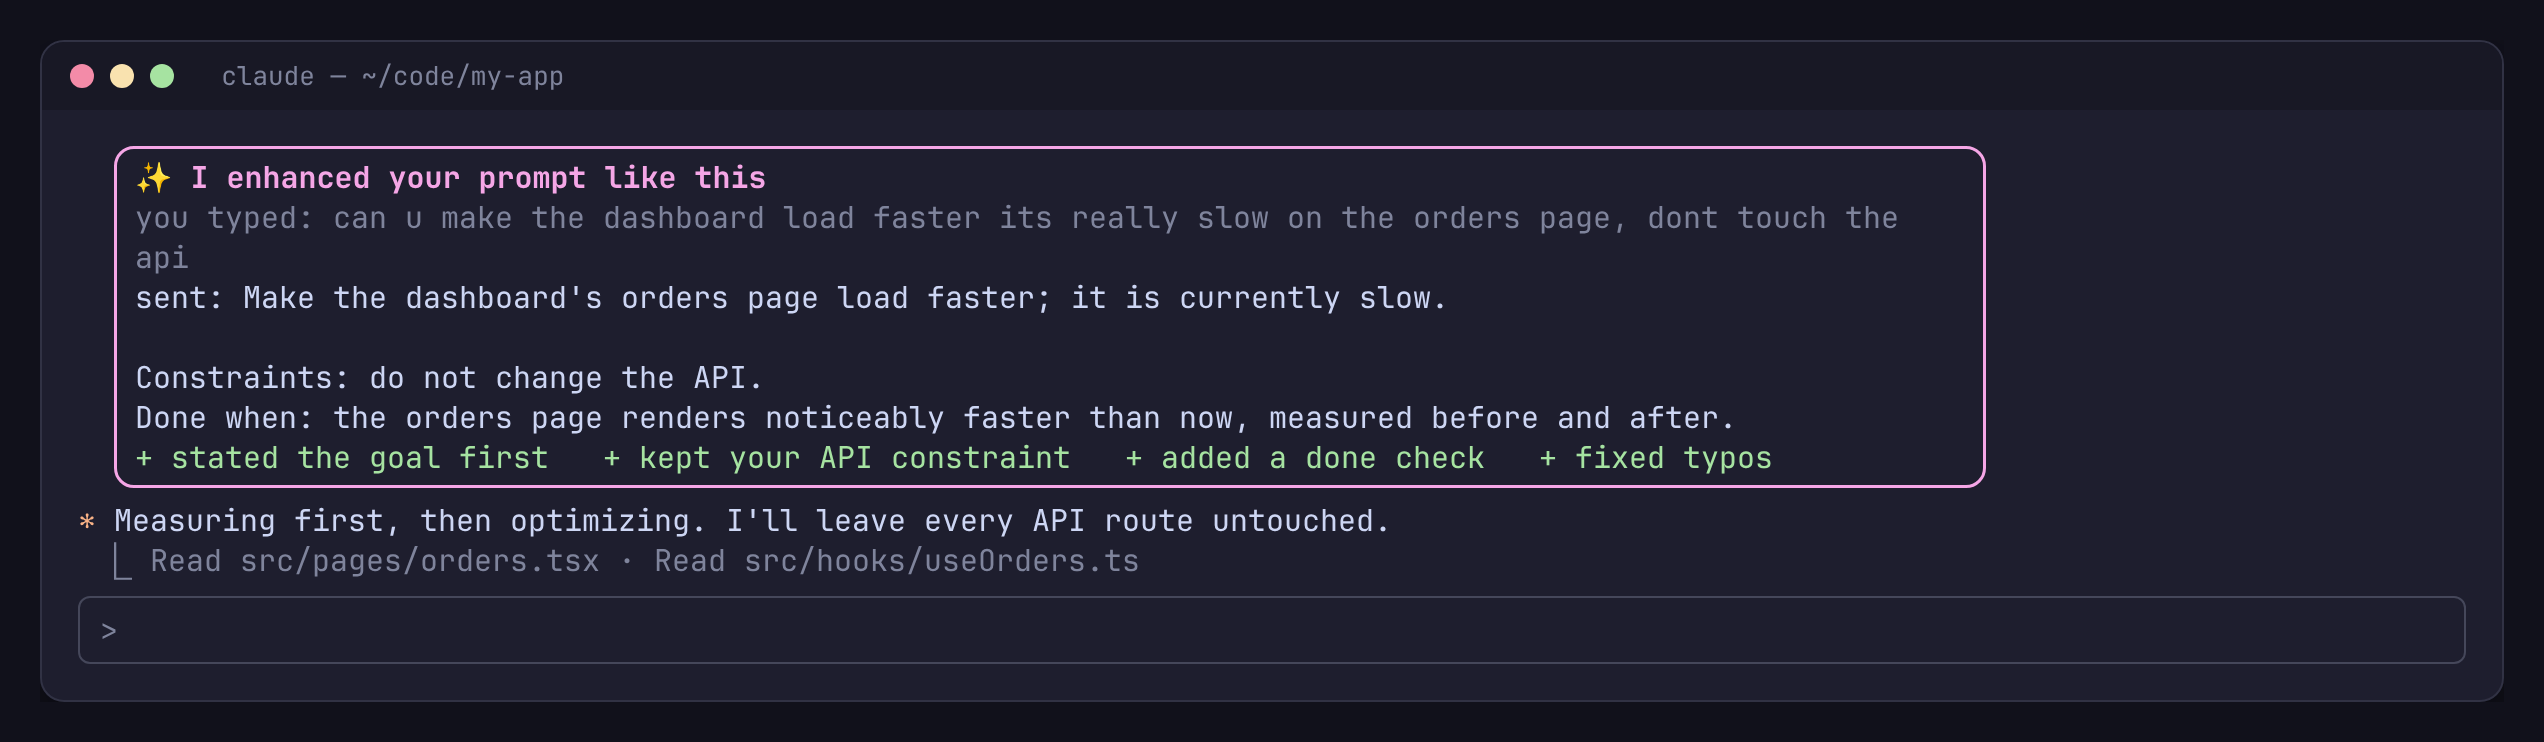
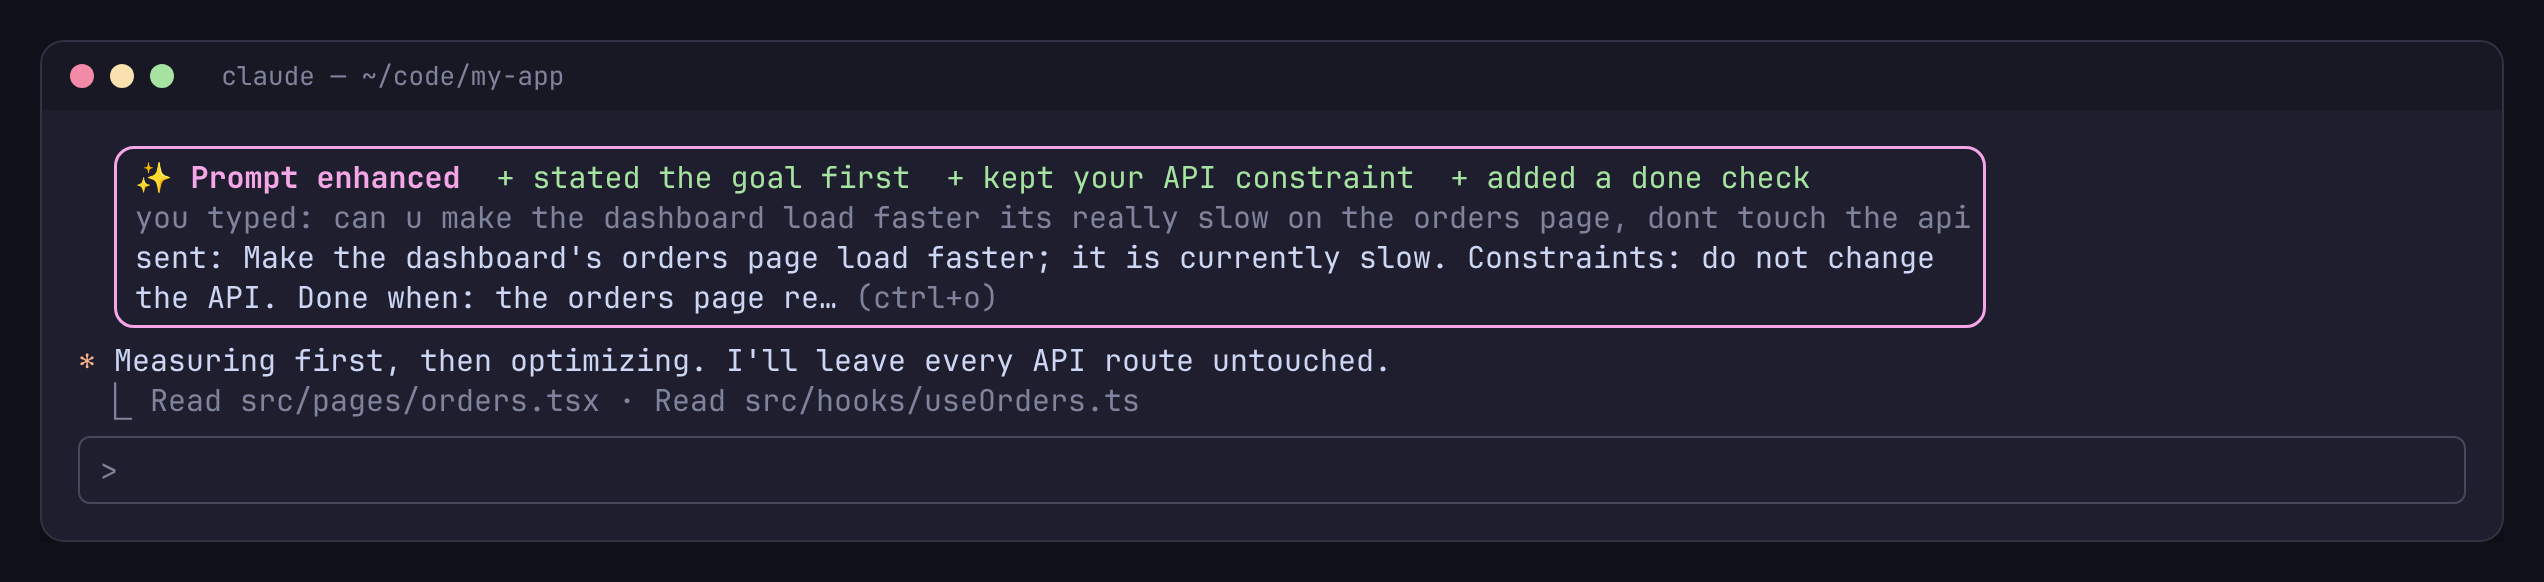
feat: compact question notice, band and enhanced card for small terminals (0.3.2)
The held prompt's questions are one tidy transcript line; the band above the
prompt is a single row with its buttons on short terminals and lists the
questions only when it has room. The enhanced card is a few rows tall so it
no longer scrolls off before it is seen, with a "Prompt enhanced" toast as a
backup. Haiku keeps its questions under 12 words. Docs and screenshots
updated.

diff --git a/plugins/prompt-forge/hooks/register.tsx b/plugins/prompt-forge/hooks/register.tsx
@@ -32,7 +32,7 @@ Never answer the user or explain anything. Reply in exactly one of these three f
 UNCHANGED
 
 2. You cannot tell what the user wants even with the conversation, and a wrong guess would
-send the agent off track. Ask 1 to 3 short questions only the user can answer: what they
+send the agent off track. Ask 1 to 3 questions only the user can answer, each under 12 words: what they
 mean by an unclear reference, which of several options they want, a name or value only they
 know. Never ask where code lives, what the stack is, or for logs or metrics: the agent reads
 the code and finds those itself, so rewrite the prompt instead.
@@ -107,9 +107,14 @@ export function wantsForge(text: string): boolean {
  * prompt may never show (a survey holds it, or another plugin's band answers first).
  */
 export function holdNote(questions: readonly string[]): string {
-  const qs = questions.length === 1 ? questions[0] : questions.map((q, i) => `${i + 1}) ${q}`).join('  ')
-  return `✨ Prompt Forge needs an answer before sending: ${qs}  Reply in the prompt box, or send "raw:" alone to send your prompt as typed.`
+  // One line: the engine draws a drop's text as a single paragraph, newlines included.
+  const qs = questions.length === 1 ? questions[0] : questions.map((q, i) => `${i + 1}. ${q}`).join('  ')
+  return `✨ Prompt Forge asks: ${qs}  ↳ reply below, or send "raw:" to send your prompt as typed`
 }
+
+/** A toast that outlasts the card scrolling away on a short terminal. */
+const enhancedNote = (added: readonly string[]) =>
+  `✨ Prompt enhanced${added.length ? `: ${added.slice(0, 2).join(', ')}` : ''} (ctrl+o on it shows the full text)`
 
 const clip = (s: string, n: number) => (s.length > n ? `${s.slice(0, n - 1)}…` : s)
 const norm = (s: string) => s.trim().replace(/\s+/g, ' ')
@@ -189,6 +194,7 @@ export const register: Register = on => {
         const out = await forge($, held.original, answers)
         if (out.kind !== 'rewrite') return next({ ...e, text: plain })
         await update($, forgedA, list => [...list, { original: `${held.original}\n↳ ${typed}`, enhanced: out.enhanced, added: out.added }].slice(-50))
+        $.ui.toast(enhancedNote(out.added))
         return next({ ...e, text: out.enhanced })
       } finally {
         $.ui.status(undefined)
@@ -214,6 +220,7 @@ export const register: Register = on => {
       }
       const item: Forged = { original: e.text, enhanced: out.enhanced, added: out.added }
       await update($, forgedA, list => [...list, item].slice(-50))
+      $.ui.toast(enhancedNote(out.added))
       return next({ ...e, text: out.enhanced })
     } finally {
       $.ui.status(undefined)
@@ -225,13 +232,12 @@ export const register: Register = on => {
     const held = await read($, pendingA)
     if (!held || e.props.hasSurvey) return next(e)
     const { Box, Button, Text } = $.ui.resolve(e)
+    // On a short terminal the band is one row: the transcript line above carries the questions.
+    const roomy = e.props.maxRows >= 14
     return (
       <Box flexDirection="column" borderStyle="round" borderColor="magenta" paddingX={1}>
-        <Text bold color="magenta">✨ Before I send this, I need a bit more context</Text>
-        <Text dimColor>you typed: {clip(held.original, 200)}</Text>
-        {held.questions.map((q, i) => <Text>{`${i + 1}. ${q}`}</Text>)}
-        <Text dimColor>Type your answer below and press Enter. The agent continues with both.</Text>
-        <Box flexDirection="row">
+        <Box flexDirection="row" gap={1}>
+          <Text bold color="magenta">✨ Prompt Forge is waiting for your answer</Text>
           <Button
             key="send-as-typed"
             label="Send as typed"
@@ -240,9 +246,10 @@ export const register: Register = on => {
               await $.prompt.submit({ text: held.original, asUser: true })
             }}
           />
-          <Text> </Text>
           <Button key="cancel" label="Cancel" onPress={() => update($, pendingA, () => null)} />
         </Box>
+        {roomy && <Text dimColor wrap="truncate-end">you typed: {clip(held.original, 200)}</Text>}
+        {roomy && held.questions.map((q, i) => <Text>{`${i + 1}. ${q}`}</Text>)}
       </Box>
     )
   })
@@ -256,10 +263,12 @@ export const register: Register = on => {
     const { Box, Text } = $.ui.resolve(e)
     return (
       <Box flexDirection="column" borderStyle="round" borderColor="magenta" paddingX={1}>
-        <Text bold color="magenta">✨ I enhanced your prompt like this</Text>
-        <Text dimColor>you typed: {clip(hit.original, 400)}</Text>
-        <Text>sent: {hit.enhanced}</Text>
-        {hit.added.length > 0 && <Text color="green">{hit.added.map(a => `+ ${a}`).join('   ')}</Text>}
+        <Text wrap="truncate-end">
+          <Text bold color="magenta">✨ Prompt enhanced</Text>
+          {hit.added.length > 0 && <Text color="green">{`  ${hit.added.map(a => `+ ${a}`).join('  ')}`}</Text>}
+        </Text>
+        <Text dimColor wrap="truncate-end">you typed: {hit.original.replace(/\s+/g, ' ')}</Text>
+        <Text>sent: {clip(hit.enhanced.replace(/\s+/g, ' '), 150)} <Text dimColor>(ctrl+o)</Text></Text>
       </Box>
     )
   })

diff --git a/scripts/mockups/ask.html b/scripts/mockups/ask.html
@@ -1,13 +1,8 @@
-<!doctype html><html data-size="1280,580"><head><meta charset="utf-8"><link rel="stylesheet" href="style.css"></head><body>
+<!doctype html><html data-size="1280,400"><head><meta charset="utf-8"><link rel="stylesheet" href="style.css"></head><body>
 <div class="win"><div class="bar"><span class="dot" style="background:#f38ba8"></span><span class="dot" style="background:#f9e2af"></span><span class="dot" style="background:#a6e3a1"></span>&nbsp; claude — ~/code/my-app</div>
 <div class="body">
-<div class="wrap reason">Prompt dropped by a hook: ✨ Prompt Forge needs an answer before sending: 1) Which plugin should be renamed?  2) What should the new name be?  Reply in the prompt box, or send "raw:" alone to send your prompt as typed.</div>
+<div class="wrap reason">Prompt dropped by a hook: ✨ Prompt Forge asks: 1. Which plugin should be renamed?  2. What should the new name be?  ↳ reply below, or send "raw:" to send your prompt as typed</div>
 <div class="sep"></div>
-<div class="card" style="margin-left:0"><div class="t">✨ Before I send this, I need a bit more context</div>
-<div class="wrap dim">you typed: rename it so it's independent from the other one</div>
-<div class="wrap">1. Which plugin should be renamed?</div>
-<div class="wrap">2. What should the new name be?</div>
-<div class="wrap dim">Type your answer below and press Enter. The agent continues with both.</div>
-<div style="margin-top:4px"><span class="btnbox focus">Send as typed</span><span class="btnbox">Cancel</span></div></div>
+<div class="card" style="margin-left:0"><div class="row"><span class="t">✨ Prompt Forge is waiting for your answer</span>&nbsp; <span class="btnbox focus">Send as typed</span><span class="btnbox">Cancel</span></div></div>
 <div class="prompt" style="color:var(--fg)">&gt; <span class="typing">prompt-forge, call it prompt-smith</span></div>
 </div></div></body></html>

diff --git a/scripts/mockups/card.html b/scripts/mockups/card.html
@@ -1,13 +1,9 @@
 <!doctype html><html data-size="1280,520"><head><meta charset="utf-8"><link rel="stylesheet" href="style.css"></head><body>
 <div class="win"><div class="bar"><span class="dot" style="background:#f38ba8"></span><span class="dot" style="background:#f9e2af"></span><span class="dot" style="background:#a6e3a1"></span>&nbsp; claude — ~/code/my-app</div>
 <div class="body">
-<div class="card"><div class="t">✨ I enhanced your prompt like this</div>
-<div class="wrap dim">you typed: can u make the dashboard load faster its really slow on the orders page, dont touch the api</div>
-<div class="wrap">sent: Make the dashboard&#39;s orders page load faster; it is currently slow.
-
-Constraints: do not change the API.
-Done when: the orders page renders noticeably faster than now, measured before and after.</div>
-<div class="add">+ stated the goal first   + kept your API constraint   + added a done check   + fixed typos</div></div>
+<div class="card"><div class="row"><span class="t">✨ Prompt enhanced</span><span class="add">  + stated the goal first  + kept your API constraint  + added a done check</span></div>
+<div class="row dim">you typed: can u make the dashboard load faster its really slow on the orders page, dont touch the api</div>
+<div class="wrap">sent: Make the dashboard&#39;s orders page load faster; it is currently slow. Constraints: do not change the API. Done when: the orders page re… <span class="dim">(ctrl+o)</span></div></div>
 <div class="row"><span class="ast">✻ </span>Measuring first, then optimizing. I'll leave every API route untouched.</div>
 <div class="row dim">  ⎿ Read src/pages/orders.tsx · Read src/hooks/useOrders.ts</div>
 <div class="prompt">&gt; </div>

diff --git a/scripts/mockups/flow-3.html b/scripts/mockups/flow-3.html
@@ -1,13 +1,9 @@
 <!doctype html><html data-size="1280,520"><head><meta charset="utf-8"><link rel="stylesheet" href="style.css"></head><body>
 <div class="win"><div class="bar"><span class="dot" style="background:#f38ba8"></span><span class="dot" style="background:#f9e2af"></span><span class="dot" style="background:#a6e3a1"></span>&nbsp; claude — ~/code/my-app</div>
 <div class="body">
-<div class="card"><div class="t">✨ I enhanced your prompt like this</div>
-<div class="wrap dim">you typed: can u make the dashboard load faster its really slow on the orders page, dont touch the api</div>
-<div class="wrap">sent: Make the dashboard&#39;s orders page load faster; it is currently slow.
-
-Constraints: do not change the API.
-Done when: the orders page renders noticeably faster than now, measured before and after.</div>
-<div class="add">+ stated the goal first   + kept your API constraint   + added a done check   + fixed typos</div></div>
+<div class="card"><div class="row"><span class="t">✨ Prompt enhanced</span><span class="add">  + stated the goal first  + kept your API constraint  + added a done check</span></div>
+<div class="row dim">you typed: can u make the dashboard load faster its really slow on the orders page, dont touch the api</div>
+<div class="wrap">sent: Make the dashboard&#39;s orders page load faster; it is currently slow. Constraints: do not change the API. Done when: the orders page re… <span class="dim">(ctrl+o)</span></div></div>
 <div class="row"><span class="ast">✻ </span>Measuring first, then optimizing. I'll leave every API route untouched.</div>
 <div class="row dim">  ⎿ Read src/pages/orders.tsx · Read src/hooks/useOrders.ts</div>
 <div class="prompt">&gt; </div>

diff --git a/plugins/prompt-forge/tests/forge.test.ts b/plugins/prompt-forge/tests/forge.test.ts
@@ -69,7 +69,7 @@ test('the transcript row shows the before/after card', async ($, on) => {
       plugin: 'prompt-forge', surface, component: 'UserMessage',
       props: { text: 'Make the dashboard load faster. Done when first paint is under 1s.', origin: { kind: 'composer' }, isExpanded: false },
     } as never)
-    expect(await ui.find({ type: 'Text', text: /I enhanced your prompt/ })).toBeDefined()
+    expect(await ui.find({ type: 'Text', text: /Prompt enhanced/ })).toBeDefined()
     expect(await ui.find({ type: 'Text', text: /you typed: can you make the dashboard/ })).toBeDefined()
     expect(await ui.find({ type: 'Text', text: /\+ stated the goal/ })).toBeDefined()
     await ui.unmount()
@@ -117,7 +117,7 @@ test('an unclear prompt is held, its questions asked, and the answer sends a for
 
   const first = await $.prompt.submit({ text: 'rename it so it is independent from the other one', origin: { kind: 'composer' }, wait: false })
   // The notice names the questions too, in case the band above the prompt never shows.
-  expect('drop' in first && first.drop).toContain('1) Which plugin should be renamed?  2) What should the new name be?')
+  expect('drop' in first && first.drop).toContain('1. Which plugin should be renamed?  2. What should the new name be?')
   expect(seen).toBe('')
 
   for (const surface of ['terminal', 'desktop'] as const) {

diff --git a/HELP.md b/HELP.md
@@ -100,23 +100,23 @@ The rules aim for a rewrite that makes your prompt more explicit without adding 
 
 ## When it asks you first
 
-Some prompts can't be sharpened without guessing, even with the conversation: *"rename it so it's independent from the other one"* right after a session start, for example. Instead of guessing, Prompt Forge holds the prompt and shows its questions above the prompt box:
+Some prompts can't be sharpened without guessing, even with the conversation: *"rename it so it's independent from the other one"* right after a session start, for example. Instead of guessing, Prompt Forge holds the prompt and lists its questions in the transcript, with a small box above the prompt:
 
 ```text
-╭──────────────────────────────────────────────────────────────╮
-│ ✨ Before I send this, I need a bit more context               │
-│ you typed: rename it so it's independent from the other one   │
-│ 1. Which plugin should be renamed?                             │
-│ 2. What should the new name be?                                │
-│ Type your answer below and press Enter. The agent continues…  │
-│ [Send as typed]  [Cancel]                                      │
-╰──────────────────────────────────────────────────────────────╯
+● Prompt dropped by a hook: ✨ Prompt Forge asks: 1. Which plugin should be
+  renamed?  2. What should the new name be?  ↳ reply below, or send "raw:" to
+  send your prompt as typed
+╭───────────────────────────────────────────────────────────────────────╮
+│ ✨ Prompt Forge is waiting for your answer [ Send as typed ] [ Cancel ] │
+╰───────────────────────────────────────────────────────────────────────╯
 ```
+
+"Prompt dropped by a hook" is Claude Code's own prefix: the prompt is held, not lost. On a tall terminal the box also repeats the questions and what you typed; on a short one it stays one row.
 
 - **Answer** by typing in the normal prompt box and pressing Enter. Any length counts, even two words. Your original prompt and your answer are forged together into one prompt and sent, and the agent gets to work.
 - **Send as typed** sends your original prompt unchanged.
 - **Cancel** drops the held prompt. Nothing is sent.
-- Starting your next message with `raw:` also drops the held prompt and sends that message untouched. Slash commands don't affect it.
+- Sending `raw:` alone sends the held prompt as typed (handy when the box above the prompt is hidden). Starting your next message with `raw:` and some text drops the held prompt and sends that text untouched. Slash commands don't affect it.
 - If the second pass still can't produce a rewrite, your original prompt and your answer go out together, as typed.
 
 You're asked at most once per prompt.
@@ -124,13 +124,14 @@ You're asked at most once per prompt.
 ## Reading the card
 
 ```text
-╭─────────────────────────────────────────────────────────────╮
-│ ✨ I enhanced your prompt like this                           │   title
-│ you typed: can u make the dashboard load faster its really …  │   dim: your original (first 400 chars)
-│ sent: Make the dashboard's orders page load faster; …        │   what Claude actually received
-│ + stated the goal first   + added a done check               │   green: what improved (up to 4 notes)
-╰─────────────────────────────────────────────────────────────╯
+╭────────────────────────────────────────────────────────────────────────╮
+│ ✨ Prompt enhanced  + stated the goal first  + kept your API constraint … │   title, green: what improved
+│ you typed: can u make the dashboard load faster its really slow on the … │   dim: your original, one line
+│ sent: Make the dashboard's orders page load faster; it is currently … (ctrl+o) │   what Claude received, clipped
+╰────────────────────────────────────────────────────────────────────────╯
 ```
+
+The card stays a few rows tall so it doesn't scroll away on a small terminal; a "✨ Prompt enhanced" toast also shows as the prompt goes out.
 
 - **ctrl+o** expands the transcript and shows the plain sent text without the card. Press it again to return.
 - The card is drawn from the session's memory of the last 50 rewrites. After a restart or `--resume`, older prompts show as plain sent text.
@@ -196,7 +197,7 @@ Prompt Forge rewrites the prompt with Claude Code's `prompt.submit` hook. If ano
 | Prompts never get a card | Check `/forge` (it may be off), and make sure the prompt has 5+ words and doesn't start with `/` or `raw:`. Run `claude plugin validate` on the plugin folder. |
 | "Prompt Forge skipped (api-error)" | The Haiku call failed: a network problem, a rate limit, or Haiku not being available on your plan or provider. Your prompt was sent as typed. |
 | "Prompt Forge skipped (empty-reply)" | Haiku returned nothing. Retry, or send with `raw:`. |
-| "Prompt Forge needs an answer before sending: …" | It asked the questions shown in that line. Answer them in the prompt box, send `raw:` alone to send your prompt as typed, or use **Send as typed** / **Cancel** in the box above the prompt. |
+| "Prompt Forge asks: …" | It asked the questions shown in that line. Answer them in the prompt box, send `raw:` alone to send your prompt as typed, or use **Send as typed** / **Cancel** in the box above the prompt. |
 | "no usable rewrite, sent as typed" | Haiku's reply wasn't a rewrite (for example it wrote prose back). The forge never sends such a reply; your prompt went out as typed. |
 | `/forge` is not recognized | The plugin isn't loaded. Check `/plugin` → **Installed**, and that Claude Code is 2.1.289 or newer. |
 | A rewrite changed your meaning | Resend with `raw:`, then [report it](https://github.com/tomikng/prompt-forge/issues/new?template=bad-rewrite.yml) with both versions. |

diff --git a/README.md b/README.md
@@ -9,7 +9,7 @@
 **Sharper prompts for [Claude Code](https://claude.com/claude-code), without retyping them.**
 Type the way you think. Prompt Forge rewrites it into a clear, actionable prompt before Claude sees it, and shows you exactly what it changed.
 
-[![Version](https://img.shields.io/badge/version-0.3.1-f5a6e6)](.claude-plugin/marketplace.json)
+[![Version](https://img.shields.io/badge/version-0.3.2-f5a6e6)](.claude-plugin/marketplace.json)
 [![Claude Code](https://img.shields.io/badge/Claude%20Code-%E2%89%A5%202.1.289-d97757)](https://claude.com/claude-code)
 [![License: MIT](https://img.shields.io/github/license/tomikng/prompt-forge?color=22c55e)](LICENSE)
 [![Rewrites with](https://img.shields.io/badge/rewrites%20with-Haiku-38bdf8)](#cost-and-privacy)
@@ -40,11 +40,11 @@ Claude does its best work when a prompt states the goal, the limits and what "do
 
 **Every rewritten prompt** appears in the transcript as a card: what you typed, what was sent, and what improved.
 
-<img src="assets/card.png" alt="Transcript card: 'I enhanced your prompt like this', with the typed prompt, the sent prompt and green notes on what improved" width="100%">
+<img src="assets/card.png" alt="Compact transcript card: 'Prompt enhanced' with green notes on what improved, the typed prompt and the sent prompt" width="100%">
 
 **When it can't tell what you mean, it asks.** Your prompt is held, the questions appear above the prompt box, and your answer is folded in before anything is sent:
 
-<img src="assets/ask.png" alt="Question box above the prompt: 'Before I send this, I need a bit more context', two numbered questions, and Send as typed / Cancel buttons" width="100%">
+<img src="assets/ask.png" alt="Prompt Forge's questions in one transcript line, and a one-row box above the prompt with Send as typed / Cancel buttons" width="100%">
 
 **Already clear prompts are left alone**, `raw:` sends a prompt untouched, and `/forge` turns it on and off:
 
